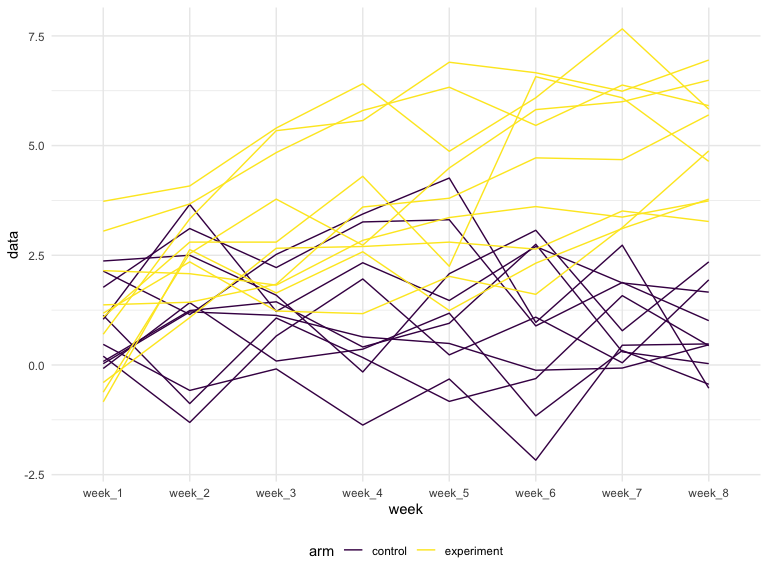
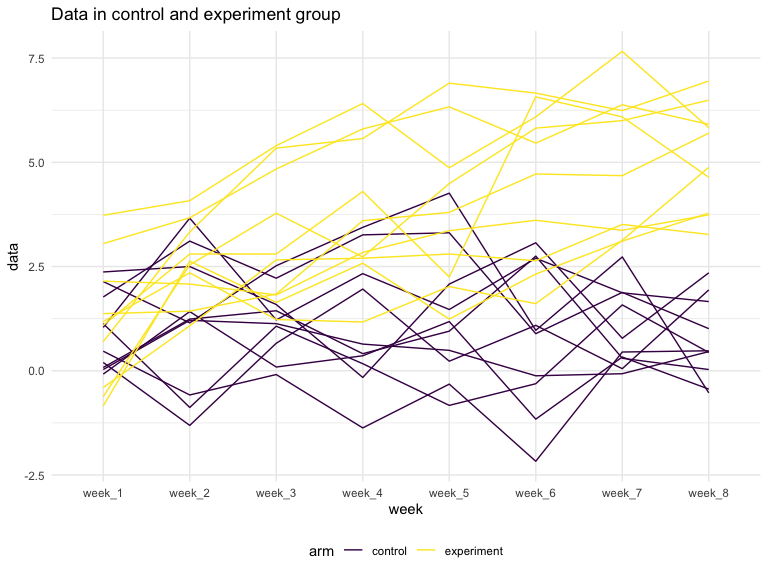
final revision

diff --git a/p8105_hw5_as5685.md b/p8105_hw5_as5685.md
@@ -1,7 +1,7 @@
 p8105\_hw5\_as5685
 ================
 
-## load in data
+## Load in data
 
 ``` r
 set.seed(10)
@@ -84,7 +84,10 @@ spaghetti_plot =
     arm = recode(arm, `con` = "control", `exp` = "experiment"),
   ) %>% 
   ggplot(aes(x = week, y = data, color = arm, group = participant)) +
-  geom_line()
+  geom_line() +
+  labs(
+    title = "Data in control and experiment group"
+  )
 
 spaghetti_plot
 ```
@@ -95,23 +98,13 @@ spaghetti_plot
     for each week. with time, the data for experiment increases, but
     decrease for control group.
 
-First set the following design elements:
-
-Fix n=30 Fix xi1 as draws from a standard Normal distribution Fix β0=2
-Fix σ2=50 Set β1=0. Generate 10000 datasets from the model
-yi=β0+β1xi1+ϵi with ϵi∼N\[0,σ2\].
-
-For each dataset, save β̂ 1 and the p-value arising from a test of
-H:β1=0 using α=0.05. Hint: to obtain the estimate and p-value, use
-broom::tidy to clean the output of lm.
-
 ## Problem 3
 
 ``` r
 set.seed(1)
 ```
 
-#### function
+#### Function
 
 ``` r
 sim_regression = function(n =30, beta0 = 2, beta1 = 0 ){
@@ -131,19 +124,15 @@ sim_regression = function(n =30, beta0 = 2, beta1 = 0 ){
 }
 ```
 
-#### random results
+#### Random results
 
 ``` r
-set.seed(1)
 sim_results = 
   rerun(10000, sim_regression(30, 2, 0)) %>% 
-  bind_rows() %>% 
-  view()
+  bind_rows()
 ```
 
-Repeat the above for β1={1,2,3,4,5,6}, and complete the following:
-
-#### try different betas
+#### Try different betas， β1={1,2,3,4,5,6}
 
 ``` r
 sim_betas = 
@@ -157,7 +146,7 @@ mutate(
   view()
 ```
 
-#### proportion of times the null was rejected (the power of the test) on the y axis and the true value of β1 on the x axies.
+#### Proportion of times the null was rejected (the power of the test) on the y axis and the true value of β1 on the x axies.
 
 ``` r
 sim_beta_clean = 
